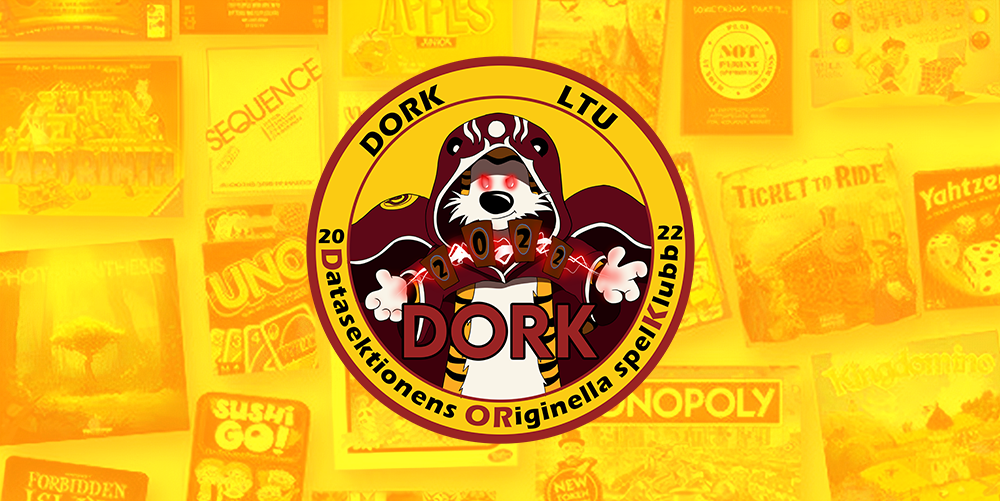
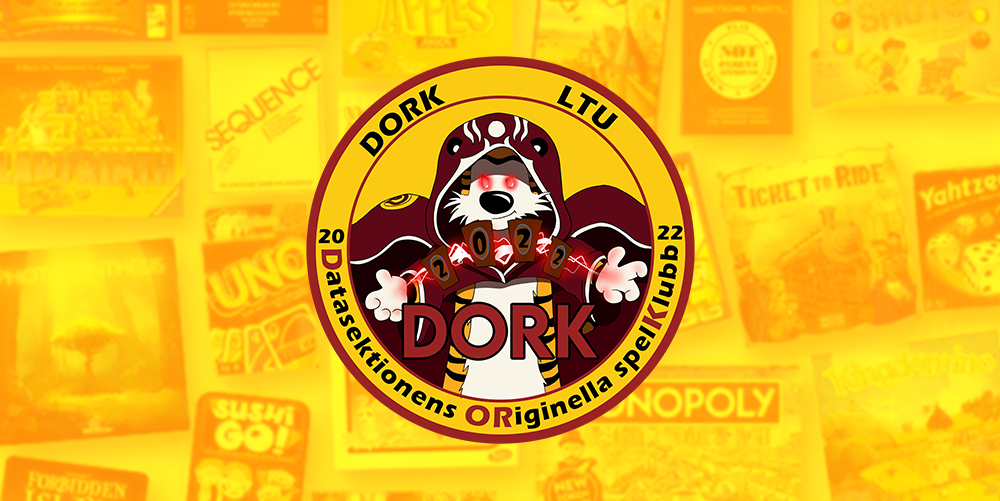
blurade bakgrunden

diff --git a/css/main.css b/css/main.css
@@ -170,7 +170,7 @@ header img {
 header {
 	background-image: url(../img/Dork\ bakgrund\ header\ smaller.png);
 	background-size: 100%;
-	height: 450px;
+	height: 440px;
 	background-size: fill;
 }
 
